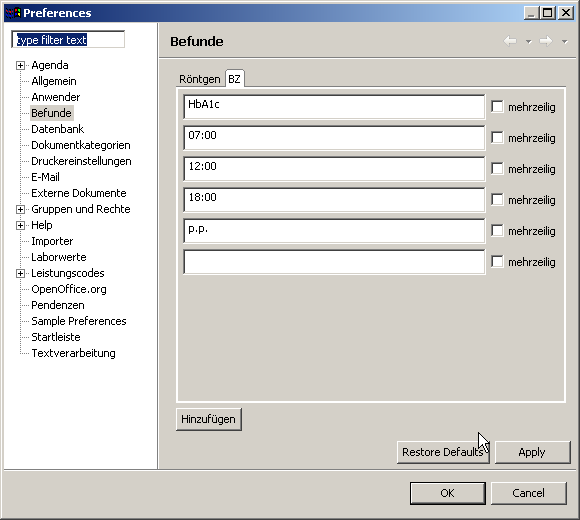
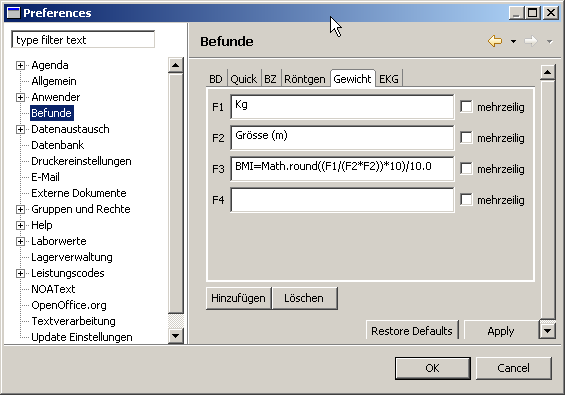
[svn] Scripting dokumentiert

Changed region(s): [[0.0, 0.0, 0.9929, 0.9722]]

diff --git a/dokumentation/settings.tex b/dokumentation/settings.tex
@@ -8,7 +8,7 @@
 % * Contributors:
 % *    G. Weirich - initial implementation
 % *
-% *  $Id: settings.tex 2651 2007-06-28 19:46:29Z rgw_ch $
+% *  $Id: settings.tex 2819 2007-07-16 13:38:22Z rgw_ch $
 % *******************************************************************************
 %
 % !Mode:: "TeX:UTF-8" (encoding info for WinEdt)
@@ -90,7 +90,7 @@ Einstellungen vorhanden ist), während die Buttons \glqq
 Arbeitsplatzeinstellungen \ldots\grqq{} die auf der lokalen Station
 gespeicherten Perspektivenlayouts betreffen.
 \section{Datenaustausch}
-Dies ist eine Sammelkategorie für Einstellungen von Plugins, die Datenaustausch von und nach Elexis anbieten. Ob und welche Einstellungsseiten hier zu finden sind, hängt von den installierten Transport-Plugins ab. 
+Dies ist eine Sammelkategorie für Einstellungen von Plugins, die Datenaustausch von und nach Elexis anbieten. Ob und welche Einstellungsseiten hier zu finden sind, hängt von den installierten Transport-Plugins ab.
 \section{Datenbank}
 Anzeige von Einstellungsdetails der aktuellen Datenbankverbindung
 \section{Druckereinstellungen}
@@ -99,11 +99,12 @@ Hier kann man für jede Papierart den dazugehörigen Drucker und -Schacht auswä
 Diese Einstellungen sind für das Versenden von E-Mails aus Elexis wichtig. Dies wird inbesondere beim automatischen Versenden von Fehlermeldungen verwendet. Dies wird auf Seite \pageref{senderrors} genauer beschrieben.
 \section{Gruppen und Rechte}
 Dies ist die zentrale Benutzerverwaltung. Auf diesen Einstellungsseiten können Anwender und Mandanten eingerichtet und die Zugriffsrechte verteilt werden. Das Konzept der Gruppen ist auf Seite \pageref{sec:gruppen} genauer erläutert.
-Legen Sie zunächst unter \textsc{Gruppen und Rechte} fest, welche Anwendergruppen Sie benötigen. 
+Legen Sie zunächst unter \textsc{Gruppen und Rechte} fest, welche Anwendergruppen Sie benötigen.
 Um einen neuen Anwender oder Mandanten einzurichten, müssen Sie diesen zunächst als \glqq Kontakt \grqq{} erfassen, und dort unter Kontakt-Details als Anwender bzw. Mandant kennzeichnen. Dann können Sie unter \textsc{Gruppen und Rechte - Mandanten} dem Mandanten einen Benutzernamen und ein Passwort zuordnen, und angeben, welchen Gruppen er zugehörig sein soll.
-Unter \textsc{Gruppen und Rechte - Anwender} können Sie dasselbe für Anwender angeben, ausserdem noch, für welchen Mandant dieser Anwender normalerweise tätig ist. 
+Unter \textsc{Gruppen und Rechte - Anwender} können Sie dasselbe für Anwender angeben, ausserdem noch, für welchen Mandant dieser Anwender normalerweise tätig ist.
 Unter \textsc{Gruppen und Rechte - Zugriffsteuerung} können für jede Gruppe und jeden Anwender einzeln Rechte zugeordnet werden.  (S. \ref{sec:gruppen}).
 \section{Laborwerte}
+\label{config:labor}
 Hier können die in der Praxis benötigten Laborparameter definiert werden. Dies kann manuell geschehen, oder, bei Laborimport-Plugins können Laboritems auch automatisch mit den vom Labor gelieferten Angaben erstellt werden.
 Jedes Laboritems ist durch folgende Eckdaten gekennzeichnet:
 \begin{itemize}
@@ -113,24 +114,85 @@ Jedes Laboritems ist durch folgende Eckdaten gekennzeichnet:
 \item{Den Normbereich, gegeben durch die Methode, z.T. auch geschlechts- alters- zyklusabhängig}
 \item{Eine Gruppe, unter der des aufgelistet wird (z.B. Hämatologie)}
 \item{Eine Sequenznummer, die angibt, an welcher Stelle innerhalb der Gruppe es einsortiert wird.}
-\item{einen Typ (numerisch, absolut, text)}
+\item{einen Typ (numerisch, absolut, text, Formel)}
 \end{itemize}
 
-Jedes Laborresultat ist durch ein solches Item, ein Datum und einen Patienten eindeutig identifiziert. 
+Jedes Laborresultat ist durch ein solches Item, ein Datum und einen Patienten eindeutig identifiziert.
 Es kann deswegen durchaus mehrere Items für ein- und denselben Parameter geben. Beispielsweise kann es ein Item \textsc{Vitamin B12} von verschiedenen Labors geben, welche nicht zwingend denselben Normbereich haben müssen.
- 
-Mit \textsc{Neuer Laborparameter} können Sie ein neues Item erstellen und die oben genannten Angaben eingeben. Hier ist es sehr wichtig, dass Sie sich im Voraus genau überlegen, welche Laborparameter Sie benötigen, und wie Sie diese gruppiert haben wollen.
-
 Sie können die Liste der Tabelle durch Klick auf die Spaltenköpfe umsortieren.
+
+Mit \textsc{Neuer Laborparameter} können Sie manuell ein neues Item erstellen\footnote{Beim Import von Laborwerten aus externen Labors werden die benötogten Items je nach Import-Plugin idR. automatisch erstellt.} und die oben genannten Angaben eingeben. Hier ist es sehr wichtig, dass Sie sich im Voraus genau überlegen, welche Laborparameter Sie benötigen, und wie Sie diese gruppiert haben wollen.
+%\usepackage{graphics} is needed for \includegraphics
+\begin{figure}[htp]
+\begin{center}
+  \includegraphics{images/labor1}
+  \caption{Neues Labor-Item erstellen}
+  \label{fig:labor1}
+\end{center}
+\end{figure}
+
+In Abb. \ref{fig:labor1} sehen Sie den Dialog zum Anlegen eines neuen bzw. Ändern eines existierenden Items. Ganz oben geben Sie da Labor ein, von dem es stammt (Das Labor muss bereits als Kontakt erfasst sein). Kürzel und Titel sind die Anzeige des Items. Als Typ wählen Sie \textit{Zahl}, \textit{Text} (Für Parameter, die sich nicht als Zahl darstellen lassen, z.B. Bakteriologiebefunde), \textit{Absolut} für Parameter, die nur positiv oder negativ sein können und \textit{Formel} für Resultate, die errechnet werden sollen (z.B. LDL-Cholesterin gem. Friedewald- Dies ist weiter unten (\ref{ref:formel}) genauer erklärt).
+
+Unter \textit{ReferenzM} geben Sie den Referenzbereich für Männer, unter \textit{ReferenzF} für Frauen ein \footnote{Elexis benötigt diese Angaben, um numerische Laborresultate automatisch als pathologisch darstellen zu können. Es ist deshalb wichtig, dass Sie den Referenzbereich genauso, als von-bis eingeben.}, unter \textit{Einheit} entsprechend die Masseinheit für den Parameter.
+
+Unter \textit{Gruppe} geben Sie an, wo dieser Parameter gruppiert sein soll. Bereits existierende Gruppen sind in der Combobox schon enthalten und können einfach ausgewählt werden. Um eine neue Gruppe zu erstellen, können Sie den Namen einfach eintippen. Der Gruppenname muss folgendes Format haben:
+Ein- oder mehrere Buchstaben, ein Leerzeichen, dann ein beliebiger Text. Die räfix entscheidet über die Sortierung auf dem Laborblatt. So wird die Gruppe  \textit{A Hämatologie} oberhalb von \textit{B Elektrolyte} zu stehen kommen, und \textit{DA Leberwerte} vor \textit{DC Nierenparameter}. Die Bennenung und die Reihenfolge der Gruppen bleibt ganz Ihnen überlassen.
+
+Unter \textit{Sequenz-Nr} schliesslich geben Sie ein, wo innerhalb der Gruppe dieser Parameter auf dem Laborblatt stehen soll. Dies muss eine Zahl sein. Hierbei kommt es nicht auf den Abstand der Zahlen der einzelnen Items an, sondern nur auf die Grösse relativ zueinander. Es ist empfehlenswert, die Zahlen nicht unmittelbar aufeinanderfolgend zu wählen, damit man später ev. leicht noch etwas dazwischenfügen kann.
+
+\subsection{Berechnete Laborwerte (Typ Formel)}
+\label{ref:formel}
+\index{Formel}
+\index{Laborwert!formel}
+Ein Laborparameter vom Typ \textit{Formel} wird nicht eingetragen oder eingelesen, sondern mit einer -im Prinzip beliebigen- Formel berechnet. In der Regel wird man sich dabei auf andere Laborwerte beziehen, von welchen der zu errechnende Parameter abhängig ist. Als Beispiel wollen wir hier einen Parameter für LDL, berechnet nach der Friedewald-Formel, erstellen. Diese Fromel benötigt als Parameter die Werte für Gesamtcholesterin, Triglyceride und HDL-Cholesterin, sie lautet ja: \textit{Gesamtcholesterin-HDL-(TG/2.2)}. Für user Beispiel seien diese anderen Parameter so vorhanden:
+\begin{itemize}
+  \item Gesamtcholesterin in Gruppe \textit{G Fettstoffwechsel}, Sequenznummer 10
+  \item HDL-Cholesterin in Gruppe \textit{G Fettstoffwechsel}, Sequenznummer 20
+  \item Triglyceride in Gruppe \textit{G Fettstoffwechsel}, Sequenznummer 40
+\end{itemize}
+
+Wir erstellen jetzt einen neuen Parameter namens \textit{LDL (errechnet)} in Gruppe G und geben ihm z.B. die Sequenznummer 21 (hier sehen Sie, dass es gut war, dass wir bei den vorherigen Sequenznummern Lücken gelassen haben) (Abb. \ref{fig:labor2}).
+%\usepackage{graphics} is needed for \includegraphics
+\begin{figure}[htp]
+\begin{center}
+  \includegraphics{images/labor2}
+  \caption{Berechneten Laborwert erstellen}
+  \label{fig:labor2}
+\end{center}
+\end{figure}
+ Dann Klicken Sie bitte auf die Typbezeichnung \textit{Formel}. Es öffnet sich ein Eingabedialog zum Eingeben der Formel:\\
+ \includegraphics{images/labor3}\\
+Um uns in der Formel auf andere Laborparameter zu beziehen, verwenden wir deren Gruppenindex (also das was vor dem Leerzeichen in der Gruppenbezeichnung steht) und Sequenznummer, getrennt durch einen Unterstrich. Um Gesamtcholesterin zu referenzieren, wählen wir also die Bezeichnung G\_20. Die Friedewald-Formel wird damit zu \textit{G\_10-G\_20-(G\_40/2.2)}. Dies würde dann allerdings auf 9 Stellen genau ausgegeben. Deshalb runden wir in unserem Beispiel mittels Math.round noch auf 2 Stellen.
+
+ Wenn jetzt die Laborwerte, auf die sich die Formel bezieht, eingegeben werden, dann wird Elexis jeweils versuchen, die Formel auszuwerten. Wenn das nicht gelingt, weil beispielsweise noch nicht alle benötigten Parameter eingegeben sind, wird \textit{?formel?} eingesetzt (S. Abb.  \ref{fig:labor4}).
+ %\usepackage{graphics} is needed for \includegraphics
+\begin{figure}[htp]
+\begin{center}
+  \includegraphics{images/labor4}
+  \caption{Laboreintrag, noch nicht komplett}
+  \label{fig:labor4}
+\end{center}
+\end{figure}
+
+Erst wenn alle benötigten Parameter vorhanden sind, wird der errechnete Wert eingesetzt (Abb. \ref{fig:labor5}).
+%\usepackage{graphics} is needed for \includegraphics
+\begin{figure}[htp]
+\begin{center}
+  \includegraphics{images/labor5}
+  \caption{Laboreintrag, komplettiert}
+  \label{fig:labor5}
+\end{center}
+\end{figure}
+
 \section{Leistungscodes}
 Dies ist wieder eine Sammelrubrik, die je nach vorhandenen Plugins für die Leistungsabrechnung unterschiedlich gefüllt sein kann. In der Schweiz ist hier standardmössig Labortarif und Tarmed vorhanden. Diese sind auf Seite \pageref{arzttarife} genauer erklärt.
 \section{Textverarbeitung}
-Auch die verwendete Textverarbeitung für Briefe etc. ist in Elexis ja durch Plugins frei definierbar. Welche Textverarbeitung verwendet werden soll, kann hier eingestellt werden. Diese Einstellung sollte normalerweise nicht mehr verändert werden, wenn erste Dokumente erstellt wurden, da diese sonst eventuell nicht mehr ohne weiteres lesbar wären. Wir empfehlen, unter Windows das Plugin NOAText und unter Linux Office-Wrapper zu verwenden. 
+Auch die verwendete Textverarbeitung für Briefe etc. ist in Elexis ja durch Plugins frei definierbar. Welche Textverarbeitung verwendet werden soll, kann hier eingestellt werden. Diese Einstellung sollte normalerweise nicht mehr verändert werden, wenn erste Dokumente erstellt wurden, da diese sonst eventuell nicht mehr ohne weiteres lesbar wären. Wir empfehlen, unter Windows das Plugin NOAText und unter Linux Office-Wrapper zu verwenden.
 \section{Update-Einstellungen}
 Elexis kann automatisch im Internet nach neuen Versionen des Kernprogramms und aller aktuell installierten Plugins suchen und diese ggf. auch automatisch herunterladen und installieren. Dieses Verhalten kann hier eingestellt werden.
 \begin{itemize}
 \item{update-site} Hier müssen Sie angeben auf welcher Site Elexis nach updates sehen soll. Verwenden Sie normalerweise die Voreinstellung.
 \item{Alle (0-nie) Tage automatisch suchen} Wenn Sie hier einen Wert ungleich null eintragen, dann gibt dieser Wert die Zahl der Tage an, die Elexis vor einem automatischen Update verstreichen lässt. Wenn der Wert null ist, dann wird Elexis nie von allein einen update-Vorgang starten (Dieser kann aber trotzdem immer manuell im Menu \textsc{Datei-Update} ausgelöst werden).
 \item{Verzeichnis für Zwischenspeicherung} Dies gibt das Verzeichnis an, in dem Elexis hehruntergeladene Updates zwischenspeichern kann bis zum Programmende.
-\end{itemize} 
+\end{itemize}
 Da Elexis nicht Teile von sich selber im laufenden Betrieb austauschen kann, geht das Update so vor: Zu ersetzende Programmteile werden zunächst in einem Verzeichnis zwischengespeichert. Erst beim nächsten Programmende werden diese Änderungen eingespielt und stehen beim nächsten Programmstart zur Verfügung. Sie werden deshalb eventuell beim Programm beenden nach einem Update eine Meldung sehen, die besagt, dass Sie den PC noch nicht ausschalten sollen, bis Elexis den Update-Vorgang fertiggestellt hat.

diff --git a/dokumentation/views/laborview.tex b/dokumentation/views/laborview.tex
@@ -7,14 +7,17 @@
 % *
 % * Contributors:
 % *    G. Weirich - initial implementation
-% *    
-% *  $Id: laborview.tex 2441 2007-05-28 18:49:56Z rgw_ch $
+% *
+% *  $Id: laborview.tex 2819 2007-07-16 13:38:22Z rgw_ch $
 % *******************************************************************************
+% !Mode:: "TeX:UTF-8" (encoding info for WinEdt)
 
 \section{Laboranzeige-View}
+\index Labor!Eingabe
+\index Labor!Anzeige
 Bei Elexis werden sowohl interne als auch externe Laborbefunde, sowohl
 automatisch eingelesene als auch manuell eigegebene Befunde in derselben Sicht
-angezeigt. 
+angezeigt.
 
 Die  Anzeige eines Befundes wird bestimmt durch
 \begin{itemize}
@@ -24,21 +27,9 @@ Die  Anzeige eines Befundes wird bestimmt durch
 \end{itemize}
 
 Das Laboritem definiert, wie und wo der Laborbefund angezeigt werden soll, und
-zu welchem Typ von Laborwerten er gehört.
-Das Laboritem hat daher folgende Eingenschaften:
-\begin{itemize}
-  \item Das Labor, von dem er stammt
-  \item Referenzbereich, getrennt für Männer und Frauen
-  \item Titel
-  \item Abkürzung
-  \item Gruppe
-  \item Sortierfolge
-\end{itemize}
-
-Das Erstellen von Labritems ist in der Regel nur bei der Installation des
+zu welchem Typ von Laborwerten er gehört. Das Erstellen von Labritems ist in der Regel nur bei der Installation des
 Programms notwendig, bzw. dann, wenn Sie neue Laborparameter in Ihre
-Standardbesimmungen aufnehmen möchten.
-Das genaue Vorgehen ist unter Konfiguration genauer beschrieben.
+Standardbesimmungen aufnehmen möchten. Das genaue Vorgehen ist unter Konfiguration (S. \pageref{config:labor} genauer beschrieben.
 
  %\usepackage{graphics} is needed for \includegraphics
 \begin{figure}[htp]
@@ -49,8 +40,20 @@ Das genaue Vorgehen ist unter Konfiguration genauer beschrieben.
 \end{center}
 \end{figure}
 
+\subsection{Manuelle Eingabe}
 Um Laborwerte manuell einzutragen, gehen Sie so vor:
 \begin{itemize}
-  \item Klicken Sie auf die Titelzeile der Tabelle. Es öffnet sich eine
-  Dialogbox, n der Sie as Datum eingeben können.
-\end{itemize}
+    \item Wenn für das gewünschte Datum noch keine Spalte exstiert, klicken Sie auf das grüne Pluszeichen rechts oben, um ein Datum anzugeben.
+    \item klicken Sie auf die Zeile und Spalte, wo Sie einen Laborwert eingeben möchten. Tippen Sie den Wert ein und verlassen Sie das Feld mit der Eingabetaste, oder der Pfeil-nach-unten-Taste.
+\end{itemize} 
+Wenn ein Laborparameter numerisch ist, und der eingegebene Wert ausserhalb des Referenzbereichs ist, wird der Wert in rot angezeigt. Sie können diese ANzeige auch manuell ein- und ausschalten, indem Sie den Wert mit der rechten Maustaste anklicken und das Häkchen vor "pathologisch" setzen oder löschen.
+
+\subsection{Automatisches Einlesen}
+\index{Labor:automatisches Einlesen}
+Elexis kann Laborwerte selbstverständlich auch automatisch einlesen. Hierfür dient das View-Menu rechts oben:\\
+\includegraphics{images/labor6}\\
+Klicken Sie auf \textit{import} und wählen Sie in der dann erscheinenden Dialogbox die Quelle für die einzulesenden Laborwerte aus. Was für Quellen hier angeboten werden, hängt von den vorhandenen Laborimport-Plugins ab. In Frage kommen Laborgeräte und verschiedene externe Labors. Eine aktuelle Liste aller vorhandenen Laborimport-Plugins finden Sie auf http://www.elexis.ch
+
+\subsection{Laborblatt drucken}
+Um ein Laborblatt auszudrucken, klciken Sie auf das Drucker-Symbol rechts oben. Dies erstellt eine Tabelle innterhalb einer Textvorlage
+ 

diff --git a/dokumentation/elexis.tex b/dokumentation/elexis.tex
@@ -8,7 +8,7 @@
 % * Contributors:
 % *    G. Weirich, U. Berner, D. Lutz
 % *
-% *  $Id: elexis.tex 2773 2007-07-10 15:58:33Z rgw_ch $
+% *  $Id: elexis.tex 2819 2007-07-16 13:38:22Z rgw_ch $
 % *******************************************************************************
 % !Mode:: "TeX:UTF-8" (encoding info for WinEdt)
 %
@@ -52,7 +52,7 @@
 		\includegraphics{../elexis/rsc/elexis-logo}
 	\end{center}
     \begin{center}
-        \textbf{Version 1.0}
+        \textbf{Version 1.1}
     \end{center}
 }
 \title{Das Elexis-Handbuch}
@@ -138,11 +138,10 @@ an. Gerne machen wir Ihnen auf Anfrage eine Offerte.
 	\include{konzepte}
 \chapter{Menü und Toolbar} 					
 	\include{menu}
-\chapter{Einstellungen}
-	\include{settings}
 \chapter{Views des Kernsystems}
 	\include{views/einfuehrung}
 	\include{views/stammdaten}
+	\include{views/laborview}
 	\include{views/abrechnung}
 	\include{views/konsviews}
 	\include{views/rest}
@@ -188,6 +187,8 @@ an. Gerne machen wir Ihnen auf Anfrage eine Offerte.
 	\include{appendix/voraussetzungen}
 \chapter{Demo in Vollprogramm umwandeln}
 	\include{appendix/vollversion}
+\chapter{Einstellungen}
+	\include{settings}
 	%%%%%%%%%%%%%%%%%%%%%%%%%%%%%%%%%%%%%%%%%%%%%%%%%%%%%%%%%%%%%%%%%%%%%%%%%%%%%%
 
 	%\include{installs/serverinst}

diff --git a/dokumentation/plugins/befunde.tex b/dokumentation/plugins/befunde.tex
@@ -31,7 +31,7 @@ Wenn ein Feld mehrzeilig sein soll, klicken Sie die entsprechende Checkbox an. E
     \caption{Mehrspaltiger Parameter}\label{fig:befunde4}
 \end{figure}
 
-\pagebreak
+Sie sehen hier auch eine weitere Besonderheit: Werte können auch errechnet statt direkt eingegeben werden. Geben Sie hierzu einfach einen Ausdruck der Form \textit{Resultat=Formel} ein, wobei Sie sich mit Fx auf andere Felder derselben Seite beziehen können. In obigem Beispiel errechnen wir den BMI aus den eingegebenen Werten für Grösse und Gewicht. Das Resultat wird allerdings standardmässig auf 9 Stellen genau ausgegeben, deswegen runden wir es hier auf eine Stelle.
 
 \subsection{Anwendung}
 
@@ -52,3 +52,8 @@ Um eine neue Messung einzugeben, klicken Sie auf das grüne Pluszeichen rechts o
 % befunde6.png: 438x290 pixel, 96dpi, 11.59x7.67 cm, bb=0 0 328 217
 \end{flushleft}
 Sie sehen jetzt Ihre bei der Konfiguration angegebenen Messzeilen, ein- oder mehrzeilig. Mit Klick auf OK wird der neue Eintrag übernommen. Mit Doppelklick können Sie ihn wieder öffnen.
+
+Im Fall eines berechneten Wertes können Sie die Rechnung durch Klicken auf den blauen Titel auslösen:\
+\begin{center}
+\includegraphics{images/befunde8}
+\end{center}
